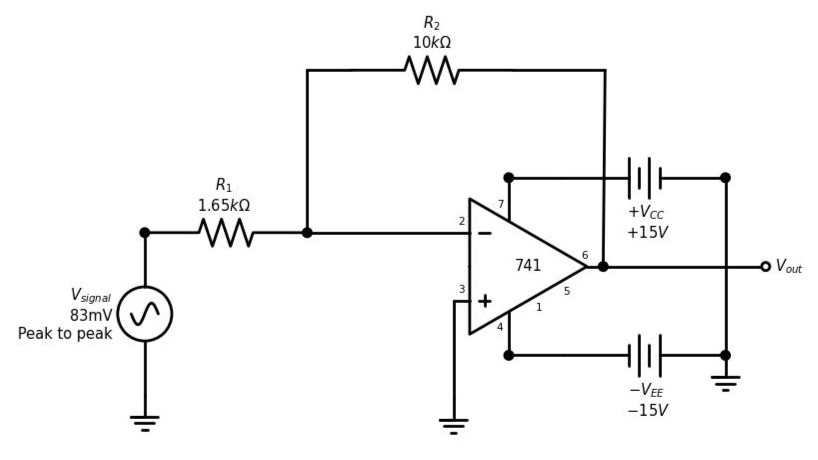
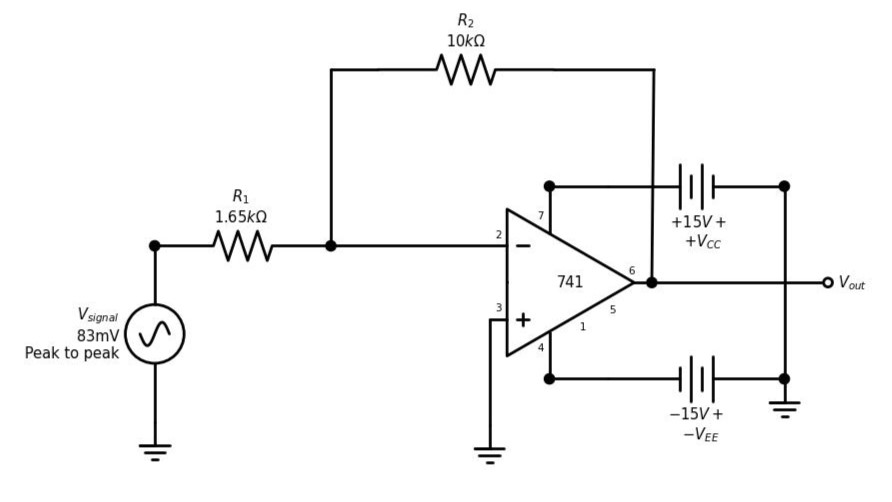
Visual improvements

Changed region(s): [[0.0, 0.0304, 0.978, 0.9435]]

diff --git a/Op-Amp inverting amplifier closed loop.py b/Op-Amp inverting amplifier closed loop.py
@@ -30,7 +30,7 @@ with schemdraw.Drawing() as d:
     d += (L10 := elm.Line().at(op.vs).down().length(0.8).dot())
     d += (L11 := elm.Line().at(L9.end).right().length(1))
     d += (L12 := elm.Line().at(L10.end).right().length(1))
-    d += (S2 := elm.Battery().at(L11.end).right().dot().label('$+V_{CC}$ \n $+15V$', 'bot'))
-    d += (S3 := elm.Battery().at(L12.end).right().reverse().dot().label('$-V_{EE}$ \n $-15V$', 'bot'))
+    d += (S2 := elm.Battery().at(L11.end).right().dot().label(' $+15V+$ \n  $+V_{CC}$', 'bot'))
+    d += (S3 := elm.Battery().at(L12.end).right().reverse().dot().label('$-15V+$ \n $-V_{EE}$', 'bot'))
     d += (L13 := elm.Line().endpoints(S2.end, S3.end))
     d += (G3 := elm.Ground().at(S3.end))
